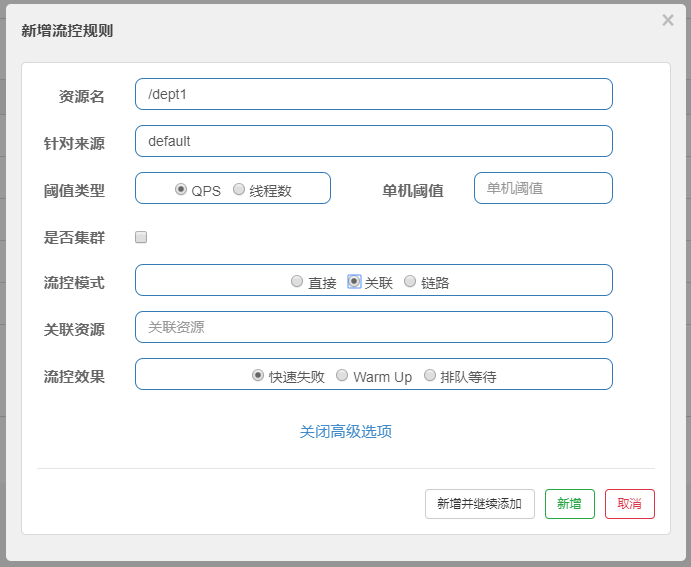
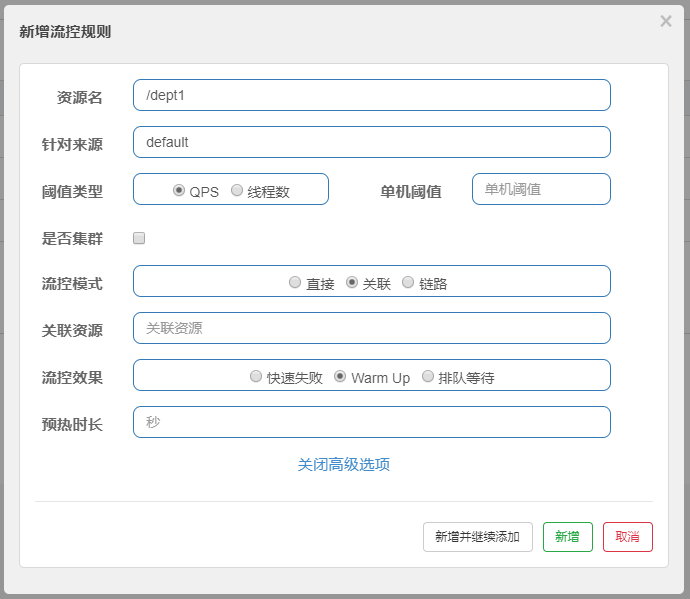
fix: perfect sentinel doc

diff --git a/circuit-sentinel/src/main/java/com/firecode/springcloudtest_alibaba/circuit/sentinel/Application.java b/circuit-sentinel/src/main/java/com/firecode/springcloudtest_alibaba/circuit/sentinel/Application.java
@@ -3,10 +3,16 @@ package com.firecode.springcloudtest_alibaba.circuit.sentinel;
 import org.springframework.boot.SpringApplication;
 import org.springframework.boot.autoconfigure.SpringBootApplication;
 
+
 @SpringBootApplication
 public class Application {
 	
 	public static void main(String[] args) {
+		// com.alibaba.csp.sentinel.slots.block.flow.controller.DefaultController     快速失败处理逻辑
+		// com.alibaba.csp.sentinel.slots.block.flow.controller.WarmUpController      预热限流处理逻辑
+		// com.alibaba.csp.sentinel.slots.block.flow.controller.RateLimiterController 排队等待限流处理逻辑
+		// com.alibaba.csp.sentinel.slots.block.degrade.DegradeRule#passCheck         降级逻辑处理
+		// com.alibaba.csp.sentinel.slots.block.flow.param.ParamFlowChecker#passCheck 热点参数限流逻辑
 		SpringApplication.run(Application.class, args);
 	}
 }

diff --git a/user/user-web/src/main/java/com/firecode/springcloudtest_alibaba/user/web/controller/TestController.java b/user/user-web/src/main/java/com/firecode/springcloudtest_alibaba/user/web/controller/TestController.java
@@ -17,6 +17,7 @@ import org.springframework.web.bind.annotation.RequestParam;
 import org.springframework.web.bind.annotation.RestController;
 import org.springframework.web.client.RestTemplate;
 
+import com.alibaba.csp.sentinel.annotation.SentinelResource;
 import com.firecode.springcloud_alibaba.user.api.domain.Dept;
 import com.firecode.springcloud_test.alibaba.user.feign.service.UserServiceClient;
 
@@ -87,6 +88,18 @@ public class TestController {
 		dept.setNumber(ThreadLocalRandom.current().nextInt(1000));
 		dept.setName(UUID.randomUUID().toString());
 		return userService.getDept(dept);
+	}
+	
+	/**
+	 * 热点限流
+	 * @param name
+	 * @return
+	 */
+	@GetMapping("/hotspot")
+	@SentinelResource("hotspot")
+	public String hotspot(@RequestParam("name") String name) {
+		
+		return name+"-"+System.currentTimeMillis();
 	}
 	
 	/**

diff --git a/circuit-sentinel/README.md b/circuit-sentinel/README.md
@@ -1,4 +1,4 @@
-#### 服务断路器 Sentinel
+#### 服务断路器 Sentinel，[官方文档](https://github.com/alibaba/Sentinel/wiki)
 #### 搭建 Sentinel 控制台
 ```bash
 # 下载控制台安装包
@@ -11,8 +11,32 @@ $ java -jar /home/sentinel/sentinel-dashboard-1.6.3.jar \
        --auth.password=sentinel                         \
        --logging.file=/home/sentinel/sentinel-dashboard.log
 ```
-#### 添加限流规则，流控模式说明
+#### 流控模式说明
  - 直接：直接限制当前资源
  - 关联：关联资源到达限流阈值后限制当前资源
- - 链路：入口资源到达限流阈值后限制当前资源
+ - 链路：从某个链路进来的流量达到限流阈值后限制当前资源
+ 
+#### 流控效果说明
+ - Warm Up：阈值 / codeFactor（预热因子默认是3） == 最初阈值，经过预热时间后才真正到达阈值（适用于秒杀，就是瞬间流量暴增场景）
+ - 排队等待：到达阈值后请求进入等待状态（注意：排队等待的流控效果一定要使用QPS阈值类型，否则无法生效）
 ![image](https://github.com/firechiang/springcloud-test-alibaba/blob/master/circuit-sentinel/image/rule-add.png)
+
+#### 降级规则说明
+ - RT：窗口时间内请求数超过5次且平均响应时间大于RT时间，触发降级，窗口时间结束后关闭降级（注意：RT时间最大4900毫秒，设置再大也是4900，强制设置最大值的方法（JVM参数）：-Dcsp.sentinel.statistic.max.tr=xxx）
+ - 异常比例：窗口时间内错误率大于限制错误比例，触发降级，窗口时间结束后关闭降级
+ - 异常数：一分钟内异常数大于限制异常数，触发降级，降级时间间隔结束后关闭降级（降级时间间隔建议设置>=60，因为异常数是每一分钟统计一次）（注意：这个到时详细测试看看，具体怎么配置合理）
+ ![image](https://github.com/firechiang/springcloud-test-alibaba/blob/master/circuit-sentinel/image/downgrade-add.png)
+ 
+#### 热点限流规则说明（这个其实就是对参数限流或对参数的值限流） （注意：参数的类型必须是基本类型的，否则无法生效）
+ ![image](https://github.com/firechiang/springcloud-test-alibaba/blob/master/circuit-sentinel/image/hotspot-add.png)
+ 
+#### 系统保护规则阀值类型说明
+ -  LOAD：当前系统load1（1分钟的load）超过阀值且并发线程数超过系统容量触发（建议Load设置=CPU核心数 * 2.5；系统容量=秒级统计最大QPS*秒级统计最小响应时间）（注意：Load类型仅对Linux系统起作用，Load的值可使用命令：uptime查看），代码位置：com.alibaba.csp.sentinel.slots.system.SystemRuleManager#checkBbr
+ - RT：所有入口流量的平均RT达到阀值后触发
+ - 线程数：所有入口流量的并发线程数达到阀值后触发
+ - 入口 QPS：所有入口流量的QPS达到阀值后触发
+ - CPU 使用率：CPU使用率达到阀值后触发，代码位置：com.alibaba.csp.sentinel.slots.system.SystemRuleManager#checkSystem
+![image](https://github.com/firechiang/springcloud-test-alibaba/blob/master/circuit-sentinel/image/load-add.png)
+
+#### 新增授权规则说明
+![image](https://github.com/firechiang/springcloud-test-alibaba/blob/master/circuit-sentinel/image/auth-add.png)
